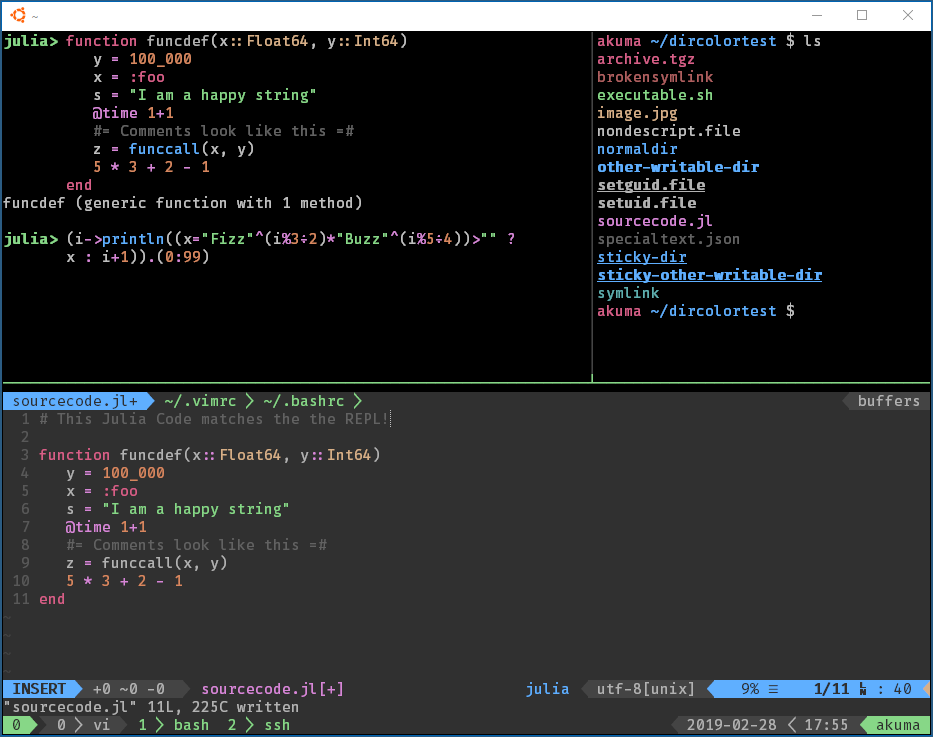
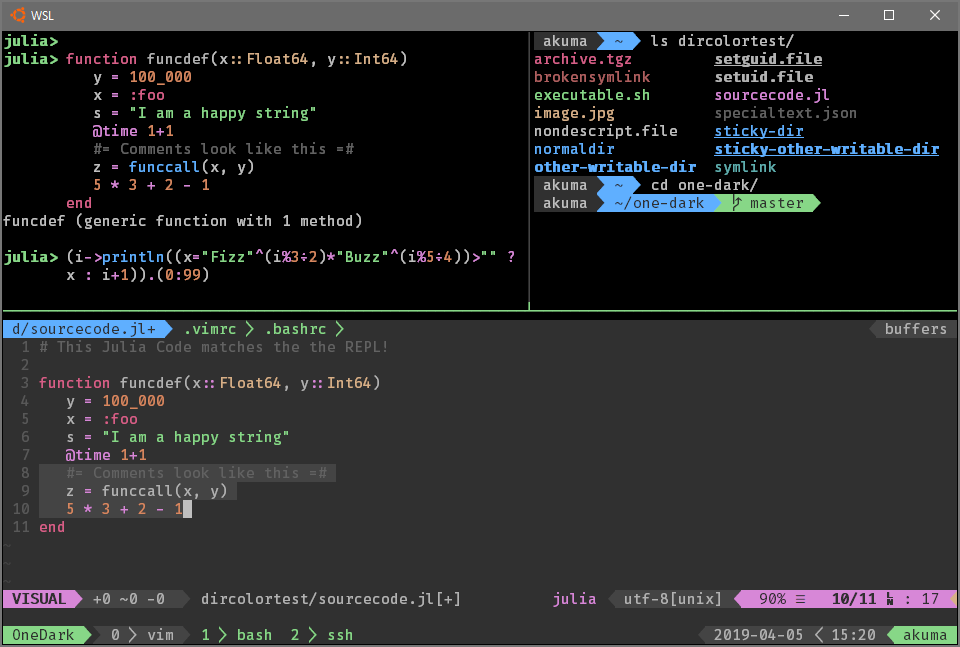
updated bash prompt

Changed region(s): [[0.0, 0.0, 1.0, 1.0], [0.5595, 0.8964, 0.6217, 0.9583], [0.5284, 0.3709, 0.5595, 0.4019]]

diff --git a/README.md b/README.md
@@ -36,22 +36,18 @@ Color escape codes in bash work like this:
 ```
 So to the escape code for one-dark magenta is first `00` for no attribute, `38` for text, `2` for RGB, `198;120;221` for the color itself. In other words, `00;38;2;198;120;221`.
 
+## Fonts
+For the bash, vim, and tmux themes to work, you need good UTF8 support. I recommend [Fira Code](https://github.com/tonsky/FiraCode) or
+
 ### Setting the prompt
 
-Rename `bashrc` to `.bashrc` and place in your home directory. The relevant line which changes colors is:
-
-```PS1="\[\e[38;2;224;108;117m\]\h \[\e[38;2;97;175;239m\]\w \[\e[m\]\$ "```
-
-Note how one must surround the color codes with `\[\e[` and `m\]` after. The same thing goes for other places where color can affect you such as when updating your terminal title with `\e]0;$(dirs)\a`.
+Rename `bashrc` to `.bashrc` and `onedark_prompt.sh` to `.onedark_prompt.sh` and place both in your home directory. The prompt makes nice use of powerline symbols and colorizes git directories in a useful way.
 
 ### Setting dircolors
 
 Rename `dircolors` to `.dircolors`, place in your home directory, and include the line `test -r ~/.dircolors && eval "$(dircolors -b ~/.dircolors)" || eval "$(dircolors -b)"` in your `.bashrc`.
 
 I've chosen an arbitrary set of colorations for filetypes that I think are important, but feel free to edit the file to hilight filetypes that are relevant to you.
-
-## Fonts
-For the vim and tmux themes to work, you need good UTF8 support. I recommend [Fira Code](https://github.com/tonsky/FiraCode) or 
 
 ## VIM
 Vim has a nice one-dark theme also available [here](https://github.com/joshdick/onedark.vim), or you can just grab the `vim/colors/onedark.vim` and add it to your own `~/.vim/colors/` folder.
